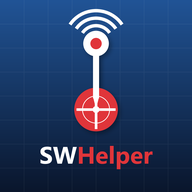
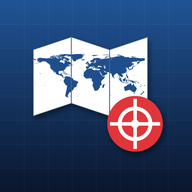
Νέο εικονίδιο (παγκόσμιος χάρτης + στόχος χάραξης) + footer στα αγγλικά

diff --git a/index.html b/index.html
@@ -238,7 +238,7 @@
       </div>
     </div>
   </main>
-  <footer>SWHelper · by Στυλιανός Φ. Αποστόλου · Ζίτσα Ιωαννίνων · <a href="mailto:stel.apostolou@gmail.com">stel.apostolou@gmail.com</a></footer>
+  <footer>SWHelper · by Stylianos F. Apostolou · Zitsa, Ioannina, Greece · <a href="mailto:stel.apostolou@gmail.com">stel.apostolou@gmail.com</a></footer>
 
 <script>
   /* ---------- Projection engine (proj4) ---------- */

diff --git a/sw.js b/sw.js
@@ -1,5 +1,5 @@
 /* SWHelper service worker — offline app shell (by ZS-Top) */
-var CACHE = 'swhelper-v1';
+var CACHE = 'swhelper-v2';
 var SHELL = [
   './', './index.html', './swmaps.js',
   './manifest.webmanifest', './assets/zstop-logo.png', './assets/aviyaan-logo.png', './assets/softwel-logo.png',
